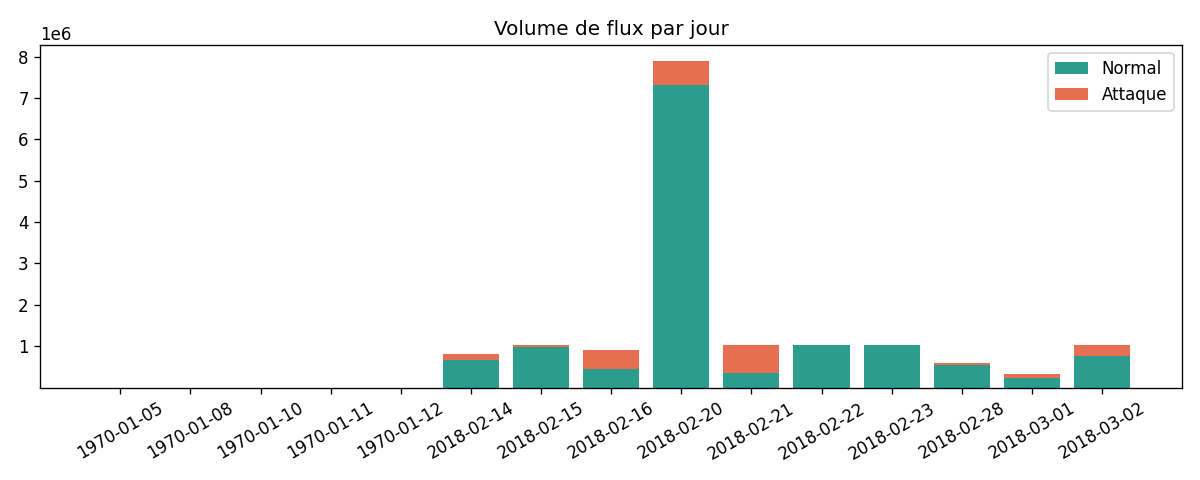
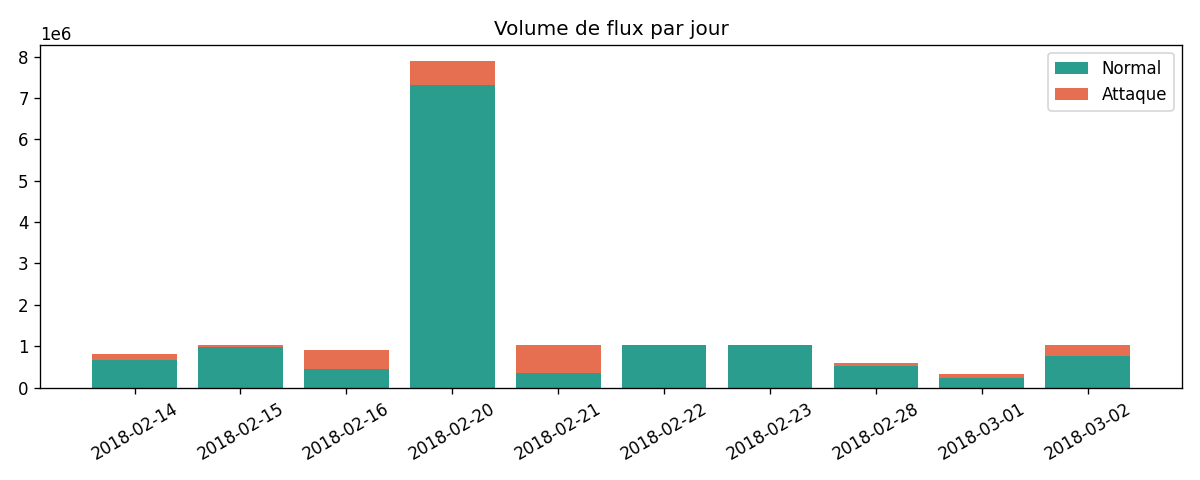
Corrections : dates invalides, versions Docker, producteur, note d'avancement
- Batch : rejet des flux hors période de capture (14 flux datés de 1970),
  nouvelle option --stats-only, statistiques recalculées (15 727 874 flux)
- Producteur : ignore les dates invalides, accents lisibles sous Windows
- docker-compose : Elasticsearch/Kibana 8.17.0, kafka-ui v0.7.2,
  ports ES_PORT / KIBANA_PORT configurables
- README : dépannage des ports, recalcul des statistiques
- ETAT_AVANCEMENT.md : analyse du projet par rapport au cahier des charges

Changed region(s): [[0.0617, 0.125, 0.8942, 0.8125], [0.0617, 0.8438, 0.6167, 0.9688], [0.5858, 0.8438, 0.9558, 0.9688]]

diff --git a/spark/batch/clean_and_stats.py b/spark/batch/clean_and_stats.py
@@ -36,11 +36,17 @@ TEXT_COLS = {"timestamp", "label", "flow_id", "src_ip", "dst_ip"}
 INT_COLS = {"dst_port", "src_port", "protocol"}
 REQUIRED = ["timestamp", "label", "dst_port", "protocol"]
 FLAGS = ["_hdr", "_bad"]
+# Période de capture du jeu de données : un horodatage en dehors (ex. 1970) est invalide
+CAPTURE_START, CAPTURE_END = "2018-02-01", "2018-03-31"
+
+
+def in_capture_period():
+    return F.col("date").between(F.lit(CAPTURE_START).cast("date"), F.lit(CAPTURE_END).cast("date"))
 
 
 def valid():
-    """Ligne gardée : ni en-tête répétée, ni valeur invalide."""
-    return (~F.col("_hdr")) & (~F.col("_bad"))
+    """Ligne gardée : ni en-tête répétée, ni valeur invalide, ni date hors période de capture."""
+    return (~F.col("_hdr")) & (~F.col("_bad")) & in_capture_period()
 
 
 def to_snake(name: str) -> str:
@@ -191,6 +197,20 @@ def dir_mb(path):
                      for dp, _, fs in os.walk(path) for f in fs) / 1e6, 1)
 
 
+def refresh_stats(spark, args):
+    """Recalcule les statistiques depuis le Parquet propre et met à jour le rapport existant."""
+    clean_df = spark.read.parquet(args.output)
+    path = os.path.join(args.reports, "rapport_nettoyage.json")
+    report = json.load(open(path, encoding="utf-8")) if os.path.exists(path) else {}
+    report["rows_final"] = clean_df.count()
+    report["columns_final"] = len(clean_df.columns)
+    report["size_parquet_mb"] = dir_mb(args.output)
+    save_stats(clean_df, args.reports)
+    with open(path, "w", encoding="utf-8") as f:
+        json.dump(report, f, indent=2, ensure_ascii=False)
+    print(json.dumps(report, indent=2, ensure_ascii=False))
+
+
 def main():
     parser = argparse.ArgumentParser()
     parser.add_argument("--input", default="data/raw")
@@ -200,6 +220,8 @@ def main():
     parser.add_argument("--keep-staging", action="store_true", help="ne pas effacer le Parquet de travail")
     parser.add_argument("--delete-raw", action="store_true",
                         help="supprimer chaque CSV dès sa conversion (manque d'espace disque)")
+    parser.add_argument("--stats-only", action="store_true",
+                        help="recalculer seulement les statistiques à partir du Parquet propre (--output)")
     args = parser.parse_args()
     # chemins absolus : les executors (autre conteneur) n'ont pas le même dossier courant
     for k in ("input", "output", "staging", "reports"):
@@ -212,7 +234,7 @@ def main():
     sizes.update({os.path.basename(f): os.path.getsize(f) for f in files})
     os.makedirs(args.staging, exist_ok=True)
     json.dump(sizes, open(sizes_path, "w"), indent=2)
-    if not files and not glob.glob(os.path.join(args.staging, "source_file=*")):
+    if not args.stats_only and not files and not glob.glob(os.path.join(args.staging, "source_file=*")):
         raise SystemExit(f"Aucun fichier CSV trouvé dans {args.input}")
     print(f"[load] {len(files)} fichier(s) CSV à traiter, {sum(map(os.path.getsize, files)) / 1e6:,.0f} Mo :")
     for f in files:
@@ -231,6 +253,10 @@ def main():
              .config("spark.executor.heartbeatInterval", "60s")
              .getOrCreate())
     spark.sparkContext.setLogLevel("WARN")
+    if args.stats_only:
+        refresh_stats(spark, args)
+        spark.stop()
+        return
     t0 = time.time()
     report, durations = {}, {}
 

diff --git a/producer/producer.py b/producer/producer.py
@@ -16,6 +16,7 @@ import argparse
 import itertools
 import json
 import os
+import sys
 import time
 from datetime import datetime, timezone
 
@@ -31,7 +32,9 @@ SEND_COLS = ["timestamp", "dst_port", "protocol", "flow_duration",
 
 
 def list_dates(path: str) -> list[str]:
-    return sorted(d.split("=", 1)[1] for d in os.listdir(path) if d.startswith("date="))
+    """Jours disponibles, limités à la période de capture (ignore les dates invalides, ex. 1970)."""
+    dates = (d.split("=", 1)[1] for d in os.listdir(path) if d.startswith("date="))
+    return sorted(d for d in dates if d >= "2018-01-01")
 
 
 def iter_flows(path: str, dates: list[str], chunk: int = 5000):
@@ -61,6 +64,7 @@ def main():
     p.add_argument("--limit", type=int, help="nombre maximum de flux")
     p.add_argument("--dry-run", action="store_true", help="affiche au lieu d'envoyer")
     args = p.parse_args()
+    sys.stdout.reconfigure(encoding="utf-8")   # accents lisibles dans la console Windows
 
     dates = [args.date] if args.date else list_dates(args.input)
     print(f"[producer] {len(dates)} jour(s) à rejouer : {', '.join(dates)}")

diff --git a/ETAT_AVANCEMENT.md b/ETAT_AVANCEMENT.md
@@ -1,0 +1,164 @@
+# État d'avancement du projet — comparaison avec le cahier des charges
+
+*Analyse du 14/11/2026 (semaine 4 sur 7 depuis le 23/10/2026).*
+
+## 1. Résumé
+
+| Objectif du cahier des charges | État | Avancement |
+|---|---|---|
+| 1. Batch Spark sur l'historique complet (~16 M flux) | ✅ Fait et exécuté | 100 % |
+| 2. Simulation du trafic dans Kafka (≥ 1 000 flux/s) | 🟡 Code testé (dry-run OK), débit réel avec Kafka à mesurer | 80 % |
+| 3. Détection temps réel avec Spark Structured Streaming | ❌ Pas commencé (`spark/streaming/` vide) | 0 % |
+| 4. Tableau de bord Kibana | ❌ Services déclarés dans docker-compose, rien d'autre | 5 % |
+| 5. Évaluation (détection, fausses alertes, débit, latence) | ❌ Pas commencé | 0 % |
+
+**Avancement global estimé : environ 35 %.** Le socle (infrastructure, données, batch) est solide.
+Le cœur du système, Spark Streaming, reste à écrire, et tout ce qui suit en dépend.
+
+---
+
+## 2. Ce qui est fait
+
+### 2.1 Organisation et déploiement
+- Dépôt GitHub en place (`miniyarlajili/ids-bigdata`), 5 commits, tout est poussé.
+- `docker-compose.yml` complet : Kafka 3.8 (KRaft, sans Zookeeper, 3 partitions), Kafka UI,
+  Spark 3.5.3 (1 master + 1 worker), Cassandra 4.1, Redis 7.2, Elasticsearch et Kibana 8.15.3.
+- Image Spark personnalisée (`spark/Dockerfile`) déjà construite (`ids-spark:3.5.3`).
+- `.gitignore` correct : les données ne sont pas versionnées.
+- README détaillé avec un guide pas à pas et une section de dépannage.
+
+### 2.2 Données (section 4 du cahier)
+- Scripts de téléchargement : un jour (`scripts/download_sample.sh`) ou le jeu complet (`scripts/download_all.ps1`, avec reprise et vérification de l'espace disque).
+- Jeu complet téléchargé puis converti. Les CSV bruts ont été supprimés après conversion (`--delete-raw`).
+
+### 2.3 Traitement batch (objectif 1) : terminé
+`spark/batch/clean_and_stats.py` a tourné sur **tout le jeu de données** :
+
+| Étape | Lignes |
+|---|---|
+| Lignes brutes | 16 233 002 |
+| Après suppression des en-têtes répétés | 16 232 943 (identique au cahier des charges ✅) |
+| Après suppression des valeurs vides / NaN / infinies | 16 137 183 |
+| Après suppression des doublons | 15 727 888 |
+| Après rejet des 14 flux datés de 1970 | **15 727 874** |
+
+- 8 colonnes constantes supprimées, 78 colonnes conservées.
+- **CSV 6,9 Go → Parquet 2,0 Go** (environ 3,4 fois plus petit), partitionné par jour. Cet argument « Big Data » est à mettre dans le rapport.
+- Durée totale : 16 min 27 s.
+- Statistiques produites dans `reports/` : volume par jour, répartition des attaques, ports les plus visés, ports visés par type d'attaque, avec leurs graphiques PNG.
+
+### 2.4 Ingestion Kafka (objectif 2) : code prêt
+`producer/producer.py` :
+- rejoue le Parquet **dans l'ordre chronologique**, jour par jour (économe en mémoire) ;
+- **débit réglable** (`--rate`), avec affichage du débit réel toutes les 5 s ;
+- options `--date`, `--limit` et `--dry-run` ;
+- `acks="all"` pour ne perdre aucun message (fiabilité) ;
+- ajoute `event_time` (l'heure du rejeu) pour le streaming et garde `label` pour l'évaluation.
+
+### 2.5 Configuration des règles (exigence « Paramétrage »)
+`config/detection_rules.yaml` : fenêtre de 10 s qui glisse de 5 s, watermark, seuils DDoS/DoS, scan de ports et force brute, gravité, anti-doublons, et paramètres de connexion à Kafka, Cassandra, Redis et Elasticsearch.
+
+### 2.6 Bonus hors cahier des charges
+Cassandra (schéma de 4 tables orienté requêtes, `config/cassandra/schema.cql`) et Redis sont prêts. Ils ne sont pas demandés par ce cahier des charges, mais le README les justifie par l'exigence « au moins 2 bases NoSQL ». Aucune donnée n'y est encore écrite.
+
+---
+
+## 3. Ce qui reste à faire
+
+| Besoin du cahier des charges | Reste à faire |
+|---|---|
+| Lire Kafka avec Spark Structured Streaming | Tout |
+| Indicateurs par fenêtre glissante (flux, paquets/s, ports distincts, connexions courtes) | Tout |
+| Règles DDoS/DoS, scan de ports, force brute | Tout |
+| Alerte avec type, heure et gravité | Tout |
+| Envoi des flux et des alertes vers Elasticsearch | Tout |
+| Tableau de bord Kibana : trafic/s, alertes par type, top ports et destinations, dernières alertes | Tout, plus l'export `.ndjson` dans `kibana/` |
+| Points de contrôle (checkpoints) et reprise après redémarrage | Tout |
+| Évaluation : taux de détection et fausses alertes par type d'attaque | Tout |
+| Mesure du débit (≥ 1 000 flux/s) et de la latence | Tout |
+| Rapport et démonstration | Tout |
+
+---
+
+## 4. Problèmes et points d'attention
+
+> **Corrections du 14/11/2026 :**
+> - ✅ Point 1 : le batch rejette les dates hors de la période de capture et le producteur les ignore. Les 14 lignes ont été déplacées
+>   vers `data/processed/_rejected/` et les statistiques recalculées (nouvelle option `--stats-only`).
+> - ✅ Point 2 : Elasticsearch et Kibana sont passés en 8.17.0 (images déjà présentes sur le poste). Les ports sont réglables
+>   avec `ES_PORT` et `KIBANA_PORT` (voir le dépannage du README). L'autre projet reste à arrêter avant le lancement.
+> - ✅ Point 6 : dépendances installées, producteur testé en `--dry-run`, accents corrigés dans la console Windows.
+> - ✅ Point 7 : `kafka-ui` fixé en `v0.7.2`.
+> - ⏳ Points 3, 4 et 5 : ils seront traités pendant le développement du streaming et de l'évaluation (semaines 4 à 6).
+
+1. **14 flux datés de 1970** (partitions `date=1970-01-*`) : ce sont des horodatages invalides. Il faut les filtrer
+   (par exemple `F.year("timestamp") >= 2018` dans le batch) ou au moins les ignorer dans le producteur.
+   Sinon ils apparaissent dans `volume_par_jour` et seront rejoués en premier.
+
+2. **Conflit de ports** : un autre projet (`bigdata-neuf-2026`) utilise déjà Elasticsearch (9200) et Kibana (5601).
+   Avant `docker compose up`, lancer `docker stop bigdata-neuf-2026-kibana-1 bigdata-neuf-2026-elasticsearch-1`.
+   Par ailleurs, les images 8.17.0 sont déjà présentes sur le poste alors que le compose demande 8.15.3 (environ 4 Go à retélécharger).
+   Passer le compose en `8.17.0` évite ce téléchargement.
+
+3. **Les seuils ne sont pas encore calibrés.** Le producteur remplace l'heure d'origine par l'heure du rejeu.
+   À 1 000 flux/s, le trafic est donc fortement accéléré : le 14/02 compte environ 820 000 flux sur une journée, soit en moyenne
+   une dizaine de flux par seconde à l'origine. Les seuils absolus du YAML (5 000 paquets/s, 2 000 connexions par fenêtre)
+   dépendent donc du débit de rejeu. Pour les fixer, regarder les fenêtres **normales**
+   (99e centile du trafic « Benign » par port et par fenêtre), éventuellement à l'aide d'un petit script batch.
+   C'est la réponse directe à « limiter les fausses alertes ».
+
+4. **Scan de ports** : CSE-CIC-IDS2018 ne contient **aucune étiquette « PortScan »**. La règle peut fonctionner,
+   mais elle ne pourra pas être évaluée avec les étiquettes. Il faut le dire dans le rapport (limites).
+   Sans adresse IP source, le nombre de ports distincts ne peut se calculer que pour l'ensemble du trafic. Les IP ne sont
+   présentes que dans certains fichiers (en particulier celui du 20/02).
+
+5. **Préparer l'évaluation dès le streaming.** Les étiquettes sont attachées aux flux, les alertes aux fenêtres.
+   Dans chaque fenêtre, calculer aussi `nb_flux_attaque` et le label majoritaire à partir de `label`,
+   **sans les utiliser dans les règles**. Ensuite :
+   fenêtre attaquée et alerte = vrai positif ; fenêtre normale et alerte = fausse alerte ; fenêtre attaquée sans alerte = attaque manquée.
+
+6. **Producteur non testé sur ce poste** : `pyarrow` n'est pas installé dans le Python 3.13 local.
+   Lancer `pip install -r requirements.txt`, puis `python producer/producer.py --dry-run --limit 3`.
+
+7. **Reproductibilité** : `provectuslabs/kafka-ui:latest` n'a pas de version fixe. La fixer (par exemple `v0.7.2`).
+
+8. **Mémoire** : Kafka, Spark, Elasticsearch, Kibana, Cassandra et Redis sur un seul poste, c'est lourd. Pour la démonstration,
+   si la RAM manque, arrêter Cassandra (le cahier des charges ne l'exige pas).
+
+---
+
+## 5. Plan pour avancer (semaines 4 à 7)
+
+### Semaine 4 (14–20/11) : Spark Streaming minimal, priorité absolue
+1. Installer les dépendances locales et tester le producteur :
+   `docker compose up -d kafka kafka-ui`, puis `python producer/producer.py --rate 1000 --limit 60000 --date 2018-02-14`.
+   Vérifier dans Kafka UI (http://localhost:8090) que le débit atteint bien 1 000 flux/s.
+2. Créer `spark/streaming/detect.py` :
+   - `readStream.format("kafka")` sur `network-flows` (package `org.apache.spark:spark-sql-kafka-0-10_2.12:3.5.3`) ;
+   - `from_json` avec un schéma explicite, puis `event_time` converti en timestamp ;
+   - `withWatermark` + `groupBy(window(event_time, "10 seconds", "5 seconds"), dst_port)` ;
+   - indicateurs : `count`, somme des paquets / 10 s, `approx_count_distinct(dst_port)`, nombre de flux avec `flow_duration` inférieure au seuil ;
+   - lecture des seuils dans `config/detection_rules.yaml` (PyYAML est déjà dans l'image).
+   - D'abord vers la console (`format("console")`) pour valider.
+3. Commencer par la règle **force brute** : le 14/02 contient FTP-BruteForce et SSH-Bruteforce, et c'est le jour le plus simple.
+
+### Semaine 5 (21–27/11) : règles, Elasticsearch et Kibana
+4. Ajouter les règles DDoS/DoS et scan de ports, ainsi que les champs type, heure, gravité et `alert_id` déterministe.
+5. Écrire avec `foreachBatch` vers Elasticsearch (bulk `elasticsearch-py`, index `ids-traffic` et `ids-alerts`)
+   avec `checkpointLocation` (exigence de fiabilité). Si le temps le permet, écrire aussi vers Cassandra et Redis dans le même `foreachBatch`.
+6. Créer le tableau de bord Kibana (trafic par seconde, alertes par type, top ports, dernières alertes, rafraîchissement toutes les 5 s),
+   puis l'exporter : *Stack Management → Saved Objects → Export* → `kibana/dashboard.ndjson`.
+
+### Semaine 6 (28/11–04/12) : calibrage et évaluation
+7. Calibrer les seuils (point 3 ci-dessus) en rejouant les jours 14/02 (force brute), 16/02 (DoS) et 20/02 ou 21/02 (DDoS).
+8. Écrire `evaluation/evaluate.py` : alertes et fenêtres comparées aux étiquettes, puis tableau par type d'attaque
+   (taux de détection, fausses alertes, précision).
+9. Tests de performance : débit maximal (rejouer à 1 000, 2 000 puis 5 000 flux/s) et latence
+   (`@timestamp` d'indexation moins `event_time`). Test de redémarrage : arrêter Spark en plein flux, le relancer
+   et vérifier qu'aucun flux n'est perdu grâce au checkpoint.
+
+### Semaine 7 (05–11/12) : finalisation
+10. Corriger les points 1, 2 et 7 de la section 4. Vérifier que `docker compose up -d` lance tout d'un coup.
+11. Rapport : contexte, problématique, architecture, réalisation (avec les chiffres du batch), évaluation, limites
+    (étiquetage, absence de PortScan, IP manquantes, attaques discrètes comme l'infiltration) et perspectives (ML, cluster).
+12. Préparer et répéter la démonstration : lancer le producteur sur le 14/02, puis montrer les alertes force brute dans Kibana.

diff --git a/README.md b/README.md
@@ -146,6 +146,10 @@ Le script travaille en 4 phases, pour ne jamais trier les 16 millions de flux d'
    - `rapport_nettoyage.json` : nombre de lignes à chaque étape, colonnes supprimées, durée ;
    - `volume_par_jour.csv/.png`, `repartition_labels.csv/.png`, `top_ports.csv/.png`, `top_ports_attaques.csv`.
 
+Les flux dont l'horodatage sort de la période de capture (ex. 1970) sont rejetés.
+Pour recalculer seulement les statistiques à partir du Parquet propre (sans les CSV) :
+`spark-submit --master spark://spark-master:7077 spark/batch/clean_and_stats.py --stats-only`
+
 Comparer la taille CSV vs Parquet (argument « Big Data » pour le rapport) :
 ```bash
 du -sh data/raw data/processed/flows
@@ -199,6 +203,7 @@ docker compose exec redis redis-cli HGETALL ids:thresholds
 | Problème | Solution |
 |---|---|
 | `port is already allocated` | Un autre programme utilise le port (8080, 9092…). Le fermer ou changer le port de gauche dans `docker-compose.yml`. |
+| Port 9200 ou 5601 déjà pris (autre projet Elasticsearch/Kibana) | Arrêter l'autre projet, ou lancer avec d'autres ports : `$env:ES_PORT=9201; $env:KIBANA_PORT=5602; docker compose up -d` (PowerShell). |
 | Le job Spark s'arrête avec `OutOfMemory` | Augmenter la RAM de Docker Desktop, ou réduire `--executor-memory`. |
 | Aucun worker sur http://localhost:8080 | `docker compose logs spark-worker` puis `docker compose restart spark-worker`. |
 | `Aucun fichier CSV trouvé` | Vérifier que le CSV est bien dans `data/raw/` à la racine du projet. |
